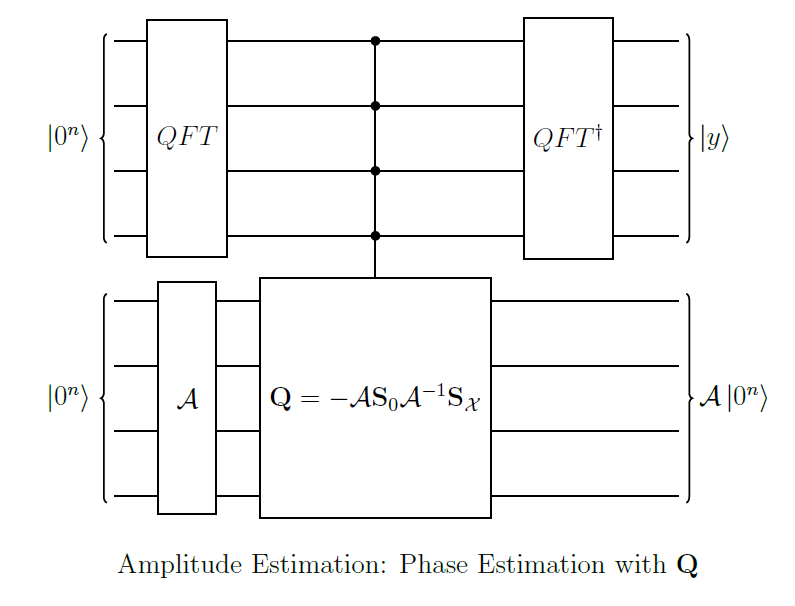
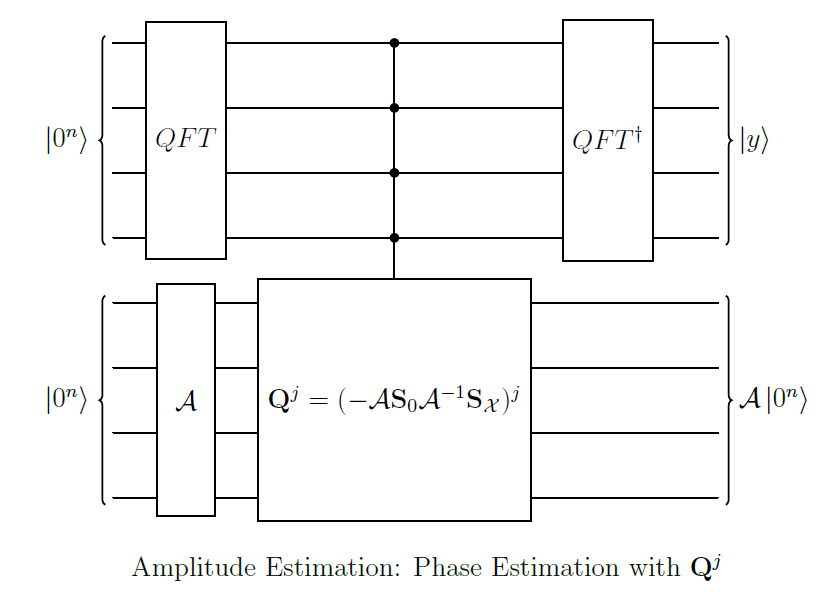
update

Changed region(s): [[0.0302, 0.0, 0.9962, 0.87], [0.1509, 0.9, 0.8755, 0.96]]

diff --git a/量子计算/量子计算(八)——振幅放大与振幅估计.md b/量子计算/量子计算(八)——振幅放大与振幅估计.md
@@ -270,10 +270,56 @@ $$\dfrac{1}{\sqrt{1-a}}cos(...)(a(e^{i\phi}-1)-e^{i\phi})+\sqrt{a}sin(...)e^{i\v
 
 <image src="image/8/AmpEst.jpg">
 
-于是$y$就代表了$\mathbf{Q}$特征值中的相位，从而可以得到$a$的一个估计值：
+于是$y$就代表了$\mathbf{Q}$特征值中的相位，对比$\mathbf{Q}$的特征值可得$i2\theta=i2\pi \dfrac{y}{n}$即$\theta=\pi \dfrac{y}{n}$，从而可以得到$a$的一个估计值：
 
 $$\tilde{a}=sin^2\left( \pi\cdot\dfrac{y}{n} \right)$$
 
+于是得到好解的数量的估计值为$\tilde{t}=N\tilde{a}$。
+
+>我们记振幅估计的算法为$AmpEst$，其所需参数显然为$(\mathcal{A},\mathcal{X},n)$。而得到好解的数量的估计算法为$Count$，显然这个算法只需计算$N\times AmpEst(...)$。此时$AmpEst$所使用的参数则是$(QFT,\mathcal{X},n)$，因此$Count$的参数列表是$(\mathcal{X},n)$。
+
 ### 3.误差分析
 
-我们知道
+首先做点数学上的准备工作。假如已知相位误差$|\tilde{\theta}-\theta|\leq\varepsilon$，那么$|\tilde{a}-a|=|sin^2\tilde{\theta}-sin^2\theta|$的上界应是什么？只需要利用和差化积，一方面：
+
+$$\begin{aligned}
+    sin^2\tilde{\theta}-sin^2\theta&\leq sin^2(\theta+\varepsilon)-sin^2\theta\\
+    &=\dfrac{1}{2}cos(2\theta)-\dfrac{1}{2}cos(2\theta+2\varepsilon)\\
+    &=sin(2\theta+\varepsilon)sin\ \varepsilon\\
+    &=(sin(2\theta)cos\ \varepsilon+sin\ \varepsilon cos(2\theta))sin\ \varepsilon\\
+    &=2\sqrt{a(1-a)}cos\ \varepsilon\ sin\varepsilon+(1-2a)sin^2\ \varepsilon\\
+    &=\sqrt{a(1-a)}sin2\varepsilon+(1-2a)sin^2\ \varepsilon\\
+    &\leq 2\varepsilon\sqrt{a(1-a)}+\varepsilon^2
+\end{aligned}$$
+
+另一方面：
+
+$$\begin{aligned}
+    sin^2\theta-sin^2\tilde{\theta}&\leq sin^2\theta-sin^2(\theta-\varepsilon)\\
+    &=\sqrt{a(1-a)}sin2\varepsilon+(2a-1)sin^2\ \varepsilon\\
+    &\leq 2\varepsilon\sqrt{a(1-a)}+\varepsilon^2
+\end{aligned}$$
+
+因此$|\tilde{a}-a|\leq 2\varepsilon\sqrt{a(1-a)}+\varepsilon^2$。如果我们希望误差最小，即取$\varepsilon=\dfrac{\pi}{n}$(因为$y$是离散的整数值)，那么显然此时$a$的误差上限是：
+
+$$|\tilde{a}-a|\leq \dfrac{2\pi}{n}\sqrt{a(1-a)}+\dfrac{\pi^2}{n^2}$$
+
+$t$的误差上限是：
+
+$$\begin{aligned}
+    |\tilde{t}-t|&=N|\tilde{a}-a|\\
+    &\leq\dfrac{2N\pi}{n}\sqrt{a(1-a)}+\dfrac{N\pi^2}{n^2}\\
+    &=\dfrac{2\pi}{n}\sqrt{t(N-t)}+\dfrac{N\pi^2}{n^2}
+\end{aligned}$$
+
+并且由相位估计中的结论，正确的概率至少是$\dfrac{8}{\pi^2}$。如果允许更大的误差，例如取$\varepsilon=\dfrac{k\pi}{n}$，那么正确的概率会更大，即$1-\dfrac{1}{2(k-1)}$。
+
+在最小误差下，应取$n=\left\lceil \sqrt{N} \right\rceil$(至于为什么，论文中尚未说明)。此时进一步得到$t$的误差上限是：
+
+$$\begin{aligned}
+    |\tilde{t}-t|&\leq\dfrac{2\pi}{n}\sqrt{t(N-t)}+\dfrac{N\pi^2}{n^2}\\
+    &=2\pi\sqrt{\dfrac{t(N-t)}{N}}+\pi^2\\
+    &=2\pi\sqrt{\dfrac{t(N-t)}{N}}+11
+\end{aligned}$$
+
+### 4.给定误差时
